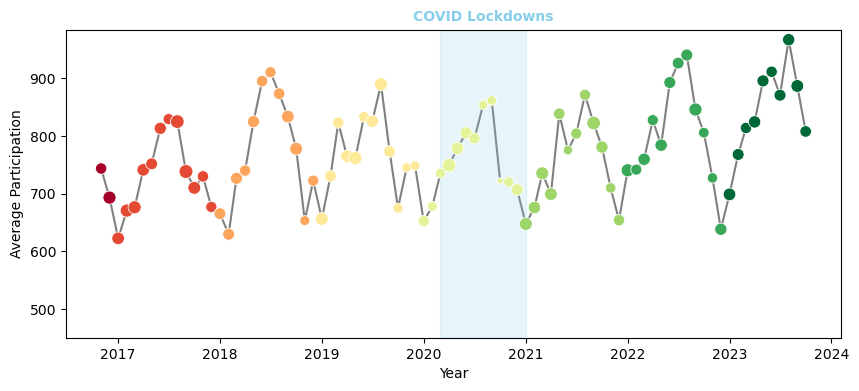
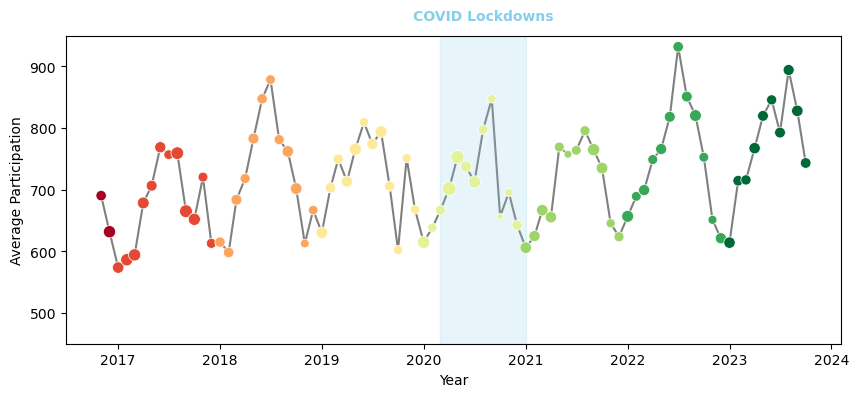
KAN-86: Add Monthly and Quarterly to Analysis plots

diff --git a/src/stream_3/analysis_plots.py b/src/stream_3/analysis_plots.py
@@ -2,13 +2,14 @@ from pathlib import Path
 import sys
 ROOT = Path(__file__).resolve().parent.parent.parent
 sys.path.append(str(ROOT))
-from src.loading_data.load_data import get_modality_data, get_sporting_distributions
+from src.loading_data.load_data import get_modality_data, get_sporting_distributions, get_monthly_data, get_quarterly_data
 import matplotlib.pyplot as plt
 import seaborn as sns
+import pandas as pd
 
 class AnalysisPlots:
 
-    def annotate_modality_plot(ax, dataframe):
+    def annotate_modality_plot(self, ax, dataframe):
         colors = ax.collections[0].get_facecolors()
         for i, row in dataframe.iterrows():
             ax.annotate(f"{int(row['Percentage'])}%", 
@@ -18,7 +19,7 @@ class AnalysisPlots:
                         ha = 'center', 
                         color = colors[i])
         
-    def plot_modality_graph(dataframe):
+    def plot_modality_graph(self, dataframe):
         plt.figure(figsize = (9, 4.5))
         ax = sns.scatterplot(data = dataframe, x = 'LCA_Class', y = 'LA', hue = 'LA', size = 'Percentage', sizes = (75, 150), zorder = 3)
         plt.legend('', frameon = False)
@@ -27,13 +28,13 @@ class AnalysisPlots:
         plt.xticks(dataframe['LCA_Class'])
         plt.grid(visible = True, linestyle = '--', alpha = 0.2, zorder = -1)
         plt.tight_layout()
-        AnalysisPlots.annotate_modality_plot(ax, dataframe)
+        AnalysisPlots.annotate_modality_plot(self, ax, dataframe)
         min, max = ax.get_ylim()
         ax.set_ylim(min, max - 0.3)
         plt.savefig('figures/cluster-geography', bbox_inches = 'tight', dpi = 500)
         plt.show()
     
-    def plot_sport_distribution(dataframe):
+    def plot_sport_distribution(self, dataframe):
         sns.barplot(dataframe, x = 'MEMS Contribution %', y = 'Sport', hue = 'Category')
         plt.legend('', frameon = False)
         plt.tight_layout()
@@ -41,10 +42,43 @@ class AnalysisPlots:
         plt.savefig('figures/specific-sports', bbox_inches = 'tight', dpi = 500)
         plt.show()
 
+    def plot_monthly(self, dataframe, ADJUST_COVID):
+        _, ax = plt.subplots(figsize = (10, 4))
+        sns.lineplot(data = dataframe, x = 'date', y = 'mean', ax = ax, zorder = 1, color = 'grey')
+        sns.scatterplot(data = dataframe, x = 'date', y = 'mean', hue = 'year', ax = ax, size = 'count', sizes = (20, 100), legend = False, zorder = 2, palette = 'RdYlGn')
+        ax.set_ylim(450, None)
+        ax.set(xlabel = 'Year', ylabel = 'Average Participation')
+        ax.axvspan('2020-03-01', '2021-01-01', alpha = 0.2, color = 'skyblue')
+        ax.text(x = pd.to_datetime('2020-08-01'), y = 975, s = 'COVID Lockdowns', color = 'skyblue', ha = 'center', fontweight = 'bold')
+        if ADJUST_COVID: 
+            plt.savefig('src/stream_1/figures/Monthly Participation (COVID Adjusted)', bbox_inches = 'tight')
+        else:
+            plt.savefig('src/stream_1/figures/Monthly Participation', bbox_inches = 'tight')
+        plt.show()
+    
+    def plot_quarterly(self, dataframe, ADJUST_COVID):
+        _, ax = plt.subplots(figsize = (10, 4))
+        sns.lineplot(data = dataframe, x = 'quarter_date', y = 'mean', ax = ax, zorder = 1, color = 'grey')
+        sns.scatterplot(data = dataframe, x = 'quarter_date', y = 'mean', hue = 'year', ax = ax, size = 'count', sizes = (60, 100), legend = False, zorder = 2, palette = 'RdYlGn')
+        ax.set_ylim(450, None)
+        ax.set(xlabel = 'Year', ylabel = 'Average Participation')
+        ax.axvspan('2020-03-01', '2021-01-01', alpha = 0.2, color = 'skyblue')
+        ax.text(x = pd.to_datetime('2020-08-01'), y = 900, s = 'COVID Lockdowns', color = 'skyblue', ha = 'center', fontweight = 'bold')
+        if ADJUST_COVID: 
+            plt.savefig('src/stream_1/figures/Quarterly Participation (COVID Adjusted)', bbox_inches = 'tight')
+        else:
+            plt.savefig('src/stream_1/figures/Quarterly Participation', bbox_inches = 'tight')
+        plt.show()
+
 
 if __name__ == "__main__":
+    ADJUST_COVID = False
     modal_df = get_modality_data()
     distribution_df = get_sporting_distributions()
+    monthly_df = get_monthly_data(ADJUST_COVID = ADJUST_COVID)
+    quarterly_df = get_quarterly_data(ADJUST_COVID = ADJUST_COVID)
     analysis = AnalysisPlots()
     analysis.plot_modality_graph(modal_df)
     analysis.plot_sport_distribution(distribution_df)
+    analysis.plot_monthly(monthly_df, ADJUST_COVID = ADJUST_COVID)
+    analysis.plot_quarterly(quarterly_df, ADJUST_COVID = ADJUST_COVID)
